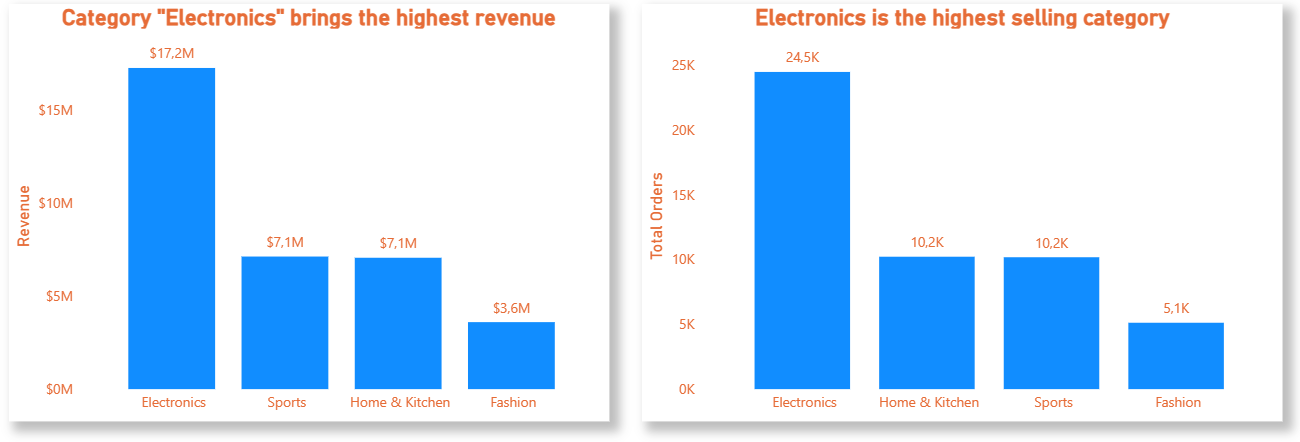
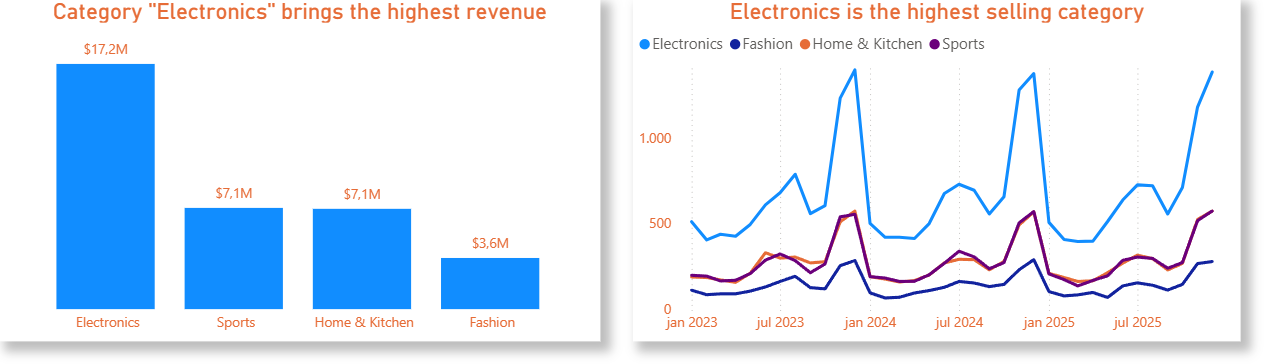
Readme refinements and chart swap

diff --git a/README.md b/README.md
@@ -1,8 +1,8 @@
-<div style="text-align: center;font-size:20px;">
+<div align="center">
     <h1>NovaCart Ecommerce Performance Report</h1>
 </div>
 
-<h1 style="text-align: center;">Company Background</h1>
+<h2 align="center">Company Background</h1>
 
 Founded in 2022, **NovaCart** is a mid-size global e-commerce company selling electronics, home goods, sports gear, and fashion accessories. Products are manufactured mostly in Asia and Eastern Europe and shipped globally. Revenue is concentrated in Europe and North America. Electronics dominate sales, while some niche accessories have very few orders.
 
@@ -22,27 +22,34 @@ SQL Queries used to inspect and clean data for this analysis can be found [here]
 Sales and Trend Analysis made in SQL are [here](scripts/Sales_Analysis.sql). 
 </br>
 </br>
-<h1 style="text-align: center;">Entity Relationship Diagram</h1>
+<h1 align="center">Entity Relationship Diagram</h1>
 
 Datasets used for this analysis are provided in .csv format and can be found here: [datasets](datasets).  
-It consists of 50,000 orders, and besides the orders table, we have product and customer tables as well. Based on those datasets, I built a data model in Power BI that is additionally enriched with date and order status dimensions. The data model consists of a main fact table, Orders, and dimension tables (Products, Customers, Date, and Status) that are interconnected.
+The dataset comprises 50,000 orders, stored across tables for orders, products, and customers. I used these datasets to build a Power BI data model, which I further enriched with date and order status dimensions. This model features a central 'Orders' fact table, interconnected with dimension tables for Products, Customers, Date, and Status.
 
 ![ERD](Images/diagrams/ERD.PNG)  
 
 <br>
-<h1 style="text-align: center;">Executive Summary</h1>
+<h1 align="center">Executive Summary</h1>
 <h2>Overview of Findings</h2>
-Looking at key performance indicators for the year 2025, there are <b>no significant changes in any of 3 indicators.</b> in neither of 3 indicators.  
+Looking at key performance indicators for 2025, there were <b>no significant changes in any of the three indicators.</b> 
 <br>
 
-While **order volume was slightly down by 0.17%** year-over-year, the other two indicators showed positive changes in 2025: **sales revenue increased by 0.25%**, and **average order value (AOV) rose by 0.42%** compared to the previous year.  
+While **order volume was slightly down by 0,17%**, the other two indicators showed positive changes compared to the previous year: **sales revenue increased by 0,25%**, and **average order value (AOV) rose by 0,42%**.  
+
 Unlike KPIs, sales trend insights definitely seem more eye-catching. There are obvious **seasonal trends** in company sales, especially the ones that are occurring **at the end of the year (November and December), when we have huge sale spikes which are followed by sudden drops in sales after the New Year.**
+Sales trend insights, unlike KPIs, are more eye-catching. Obvious **seasonal trends** exist in company sales, particularly at the end of the year (November and December), with significant spikes during the **Black Friday and the Holiday Sale** period followed by sudden drops after the New Year, in the first few months.  
+
+Revenue in 2025 reached 11,6M dollars, driven primarly by **Electronics** which contributed with **50% of total revenue**. Revenue is distributed evenly across top 10 products in our product portfolio.  
+The **Europe** as a region dominated revenue, accounted for nearly **55% of total performance**, while **North America** as a second revenue generator contributed with **21% of total revenue**.  
+
+Despite strong sales momentum, **returns remain at 6-8%, especially in Electronics**, where they are the highest, signalling an area for process improvement.
 
 <br>
 
 ![Executive Summary](Images/charts/Executive%20Summary.PNG)
 
-<h1 style="text-align: center;">Deep-Dive Insights</h1>
+<h1 align="center">Deep-Dive Insights</h1>
 <h2>Key Performance Indicators</h2>
  
 Although we processed slightly fewer orders in 2025 (-0,17%), the average order value increased 0,42%, which helped us maintain overall revenue growth for 0,25%. This is generally a positive sign, and it suggests that customers are either:
@@ -70,16 +77,16 @@ These spikes are very consistent across all three years and are most likely driv
 ![Trends](Images/charts/Trends.PNG)  
 
 ### Average Order Value
-**Average order value(AOV)** seems to have more consistency throughout the years. Average AOV was $698. At its best, it reached $727 in September 2025, while at its lowest in March 2023, it was $659. The difference between maximum and minimum is just around 10%, so we can say that the average order value stays stable in this period, without larger fluctuations.  
+Average order value(AOV) seems to have more consistency throughout the years. **Average AOV was $698. At its best, it reached $727 in September 2025, while at its lowest in March 2023, it was $659**. The difference between maximum and minimum is just around 10%, so we can say that the average order value stays stable in this period, without larger fluctuations.  
 **Average order value is showing growth in 2025 compared to previous years**, with 8 months reaching values above average. Reasons for better performance can be found either in better marketing strategies, higher prices, individual bigger order volume, or higher-priced orders.
 ### Number Of Orders  
-**Orders** closely follow sales revenue, indicating that the decline in revenue is primarily due to fewer orders rather than a drop in AOV. Order volume has highs and lows that look identical to the ones related to sales revenue, and happen in the same periods, so we can clearly conclude that there is a high correlation between sales revenue and the number of orders.  
+**Orders closely follow sales revenue, indicating that the decline in revenue is primarily due to fewer orders rather than a drop in AOV**. Order volume has highs and lows that look identical to the ones related to sales revenue, and happen in the same periods, so we can clearly conclude that there is a high correlation between sales revenue and the number of orders.  
 Big drops in order volume, which, as if by some rule happens at the beginning of the year, already in January, by halving its value from December. Decreasing continues until reaching a minimum in March. After March, it becomes more stable, and we can see moderate increases throughout the summer season. Again lower volume period comes in August and September before hitting huge spikes later in the year.
 
 <br>
-<h1 style="text-align: center;">Product Performance</h1>
+<h1 align="center">Product Performance</h1>
 
-The category comparison shows that **Electronics** significantly outperforms all other categories in total revenue with $17,2M revenue. With a more than 49% of total revenue it takes up a large percentage of total company sales and contributes more than double the revenue of other categories. After that comes products from **Sports** and **Home & Kitchen** category that both contributed with $7,1M in revenue and at the end **Fashion** category products earned a revenue of $3,6M.  
+The category comparison shows that **Electronics** significantly outperforms all other categories in total revenue with **$17,2M revenue. With a more than 49% of total revenue** it takes up a large percentage of total company sales and contributes more than double the revenue of any other category. After that comes products from **Sports** and **Home & Kitchen** category that both contributed with **$7,1M** in revenue and at the end **Fashion** category products earned a revenue of **$3,6M**.  
 This indicates that customer demand is strongest in technology products and electronics category is our primary revenue driver. Looking at order volume by category, we can clearly see similarity with revenue by category which indicates that the main cause of electronics category's dominance is not higher average selling prices but much higher order volume of technology products compared to others.  
 
 ![Product Category Performance](Images/charts/Product%20Category%20Performance.PNG)
@@ -91,10 +98,8 @@ This is generally a healthy sign for product portfolio stability because it redu
 Interestingly, out of the top 10 products, 5 of them are technology products, which again proves everything we have already said above about electronics product superiority.  
 There is one more important thing that we need to mention. We identified two products with zero sales over a three-year period: "Apple iPad Pro" and "55in OLED S95F 4K Samsung Vision Al Smart TV", indicating either a lack of demand, poor visibility, or potential data or listing issues. This represents tied-up inventory and missed revenue opportunities.
 
-
 <div valign="top" align="center">
     <img alt="Products Revenue" src="Images/charts/Top 10 products.PNG" />
-    <img alt="Products Revenue" src="Images/charts/Products With No Sales.PNG" />
 </div><br>
 <br>
 <table align="center">
@@ -107,9 +112,9 @@ There is one more important thing that we need to mention. We identified two pro
     </td>
     <td valign="top" width="500">
         <ul>
-            <li><b>Electronics</b> consistently shows the highest return rate across all periods, averaging 7.21%, which may indicate issues such as product compatibility, customer expectations, or shipping damage.
+            <li><b>Electronics</b> consistently shows the highest return rate across all periods, averaging 7.21%, which may indicate issues such as product incompatibility, unmet customer expectations, or shipping damage.
             </li>
-            <li><b>Sports</b> products, while historically having the highest return rate in 2023, show consistent improvement over time, decreasing to 6.88% in 2025. This suggests that recent product or logistics improvements may be reducing returns. 
+            <li><b>Sport</b> products, while historically having the highest return rate in 2023, show consistent improvement over time, decreasing to 6.88% in 2025. This suggests that recent product or logistics improvements may be reducing returns. 
             </li>
             <li><b>Home & Kitchen</b>, as well as <b>Fashion</b>, both maintain the lowest return rate overall, indicating stable product quality and customer satisfaction in this category.
             </li>
@@ -118,7 +123,7 @@ There is one more important thing that we need to mention. We identified two pro
   </tr>
 </table>
 <br>
-<h1 style="text-align: center;">Customer Performance</h1>
+<h1 align="center">Customer Performance</h1>
 
 
 ![Regional Revenue](Images/charts/Regional%20Revenue.PNG)  
@@ -135,7 +140,7 @@ Africa, while currently contributing the least revenue, demonstrates the lowest 
 Asia brings high risks caused by a high increase of return rate in the last year.  
 
 <br>
-<h1 style="text-align: center;">Recommendations</h1>
+<h1 align="center">Recommendations</h1>
 
 Based on the insights provided above, there are several actions towards various business segments that we can recommend to the NovaCart company.
 